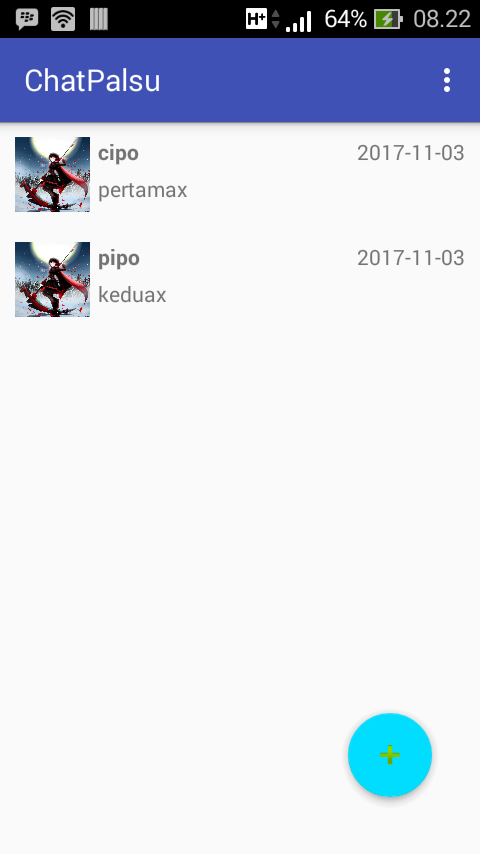
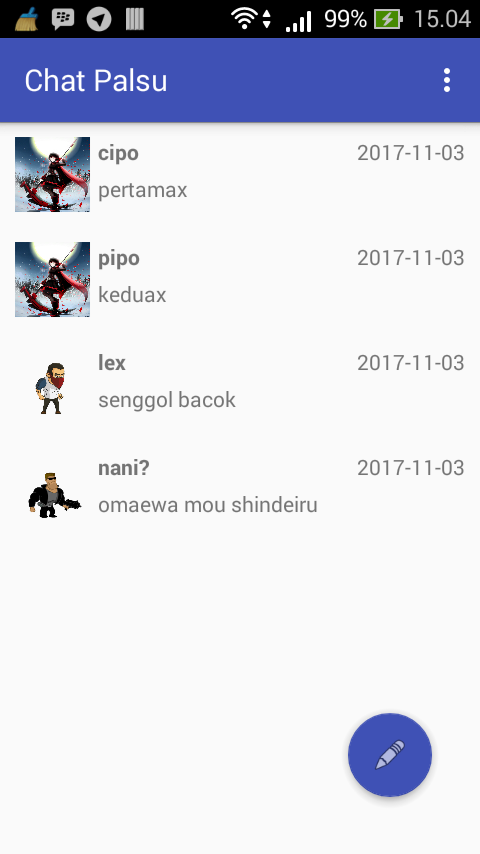
tambah image spinner

diff --git a/app/src/main/java/com/example/cipowela/chatpalsu/FormActivity.java b/app/src/main/java/com/example/cipowela/chatpalsu/FormActivity.java
@@ -5,7 +5,11 @@ import android.content.SharedPreferences;
 import android.support.v7.app.AppCompatActivity;
 import android.os.Bundle;
 import android.view.View;
+import android.widget.AdapterView;
 import android.widget.EditText;
+import android.widget.Spinner;
+
+import com.example.cipowela.chatpalsu.Adapter.ImageSpinnerAdapter;
 
 import org.json.JSONArray;
 import org.json.JSONException;
@@ -14,11 +18,15 @@ import org.json.JSONObject;
 import java.text.SimpleDateFormat;
 import java.util.Calendar;
 
-public class FormActivity extends AppCompatActivity {
+public class FormActivity extends AppCompatActivity{
 
     SharedPreferences preferences;
     SharedPreferences.Editor editor;
     EditText form_nama, form_pesan;
+    Spinner spinner;
+
+    String[] image_name = {"Ruby", "Preman", "Mafia"};
+    int[] image_picture = {R.drawable.gambar_1,R.drawable.gambar_3,R.drawable.gambar_4};
 
     @Override
     protected void onCreate(Bundle savedInstanceState) {
@@ -29,17 +37,22 @@ public class FormActivity extends AppCompatActivity {
 
         form_nama = (EditText) findViewById(R.id.form_nama);
         form_pesan = (EditText) findViewById(R.id.form_pesan);
+        spinner = (Spinner) findViewById(R.id.foto_image);
         preferences = getSharedPreferences(MainActivity.mainPrers,0);
         editor = preferences.edit();
+
+        ImageSpinnerAdapter spinnerAdapter = new ImageSpinnerAdapter(this,image_picture,image_name);
+        spinner.setAdapter(spinnerAdapter);
     }
 
     public void send(View view) {
+        int image = (int) spinner.getSelectedItem();
         JSONObject jsonObject = new JSONObject();
         try {
             jsonObject.put("Pengirim",form_nama.getText().toString());
             jsonObject.put("Content",form_pesan.getText().toString());
             jsonObject.put("Waktu",new SimpleDateFormat("yyyy-MM-dd").format(Calendar.getInstance().getTime()));
-            jsonObject.put("Foto",R.drawable.gambar_1);
+            jsonObject.put("Foto",image);
         } catch (JSONException e) {
             e.printStackTrace();
         }

diff --git a/app/src/main/java/com/example/cipowela/chatpalsu/Adapter/ImageSpinnerAdapter.java b/app/src/main/java/com/example/cipowela/chatpalsu/Adapter/ImageSpinnerAdapter.java
@@ -1,0 +1,56 @@
+package com.example.cipowela.chatpalsu.Adapter;
+
+import android.content.Context;
+import android.view.LayoutInflater;
+import android.view.View;
+import android.view.ViewGroup;
+import android.widget.BaseAdapter;
+import android.widget.ImageView;
+import android.widget.TextView;
+
+import com.example.cipowela.chatpalsu.R;
+
+/**
+ * Created by cipowela on 03/11/17.
+ */
+
+public class ImageSpinnerAdapter extends BaseAdapter {
+    private Context context;
+    private int img[];
+    private String img_name[];
+    private LayoutInflater inflater;
+
+    public ImageSpinnerAdapter(Context context, int[] img, String[] img_name) {
+        this.context = context;
+        this.img = img;
+        this.img_name = img_name;
+        inflater = LayoutInflater.from(context);
+    }
+
+    @Override
+    public int getCount() {
+        return img.length;
+    }
+
+    @Override
+    public Object getItem(int position) {
+        return img[position];
+    }
+
+    @Override
+    public long getItemId(int position) {
+        return 0;
+    }
+
+    @Override
+    public View getView(int position, View convertView, ViewGroup parent) {
+        convertView = inflater.inflate(R.layout.image_spinner,null);
+        ImageView imageView = (ImageView) convertView.findViewById(R.id.spinner_image);
+        TextView textView = (TextView) convertView.findViewById(R.id.spinner_text);
+
+        imageView.setImageResource(img[position]);
+        textView.setText(img_name[position]);
+
+        return convertView;
+    }
+}
